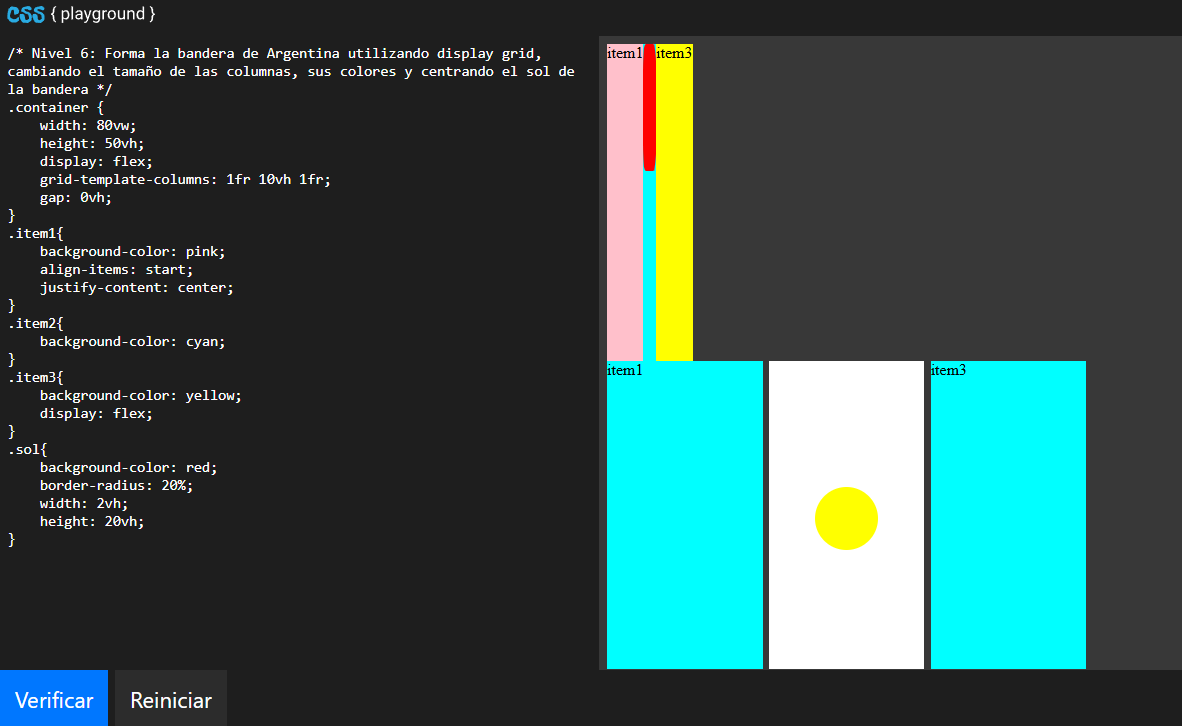
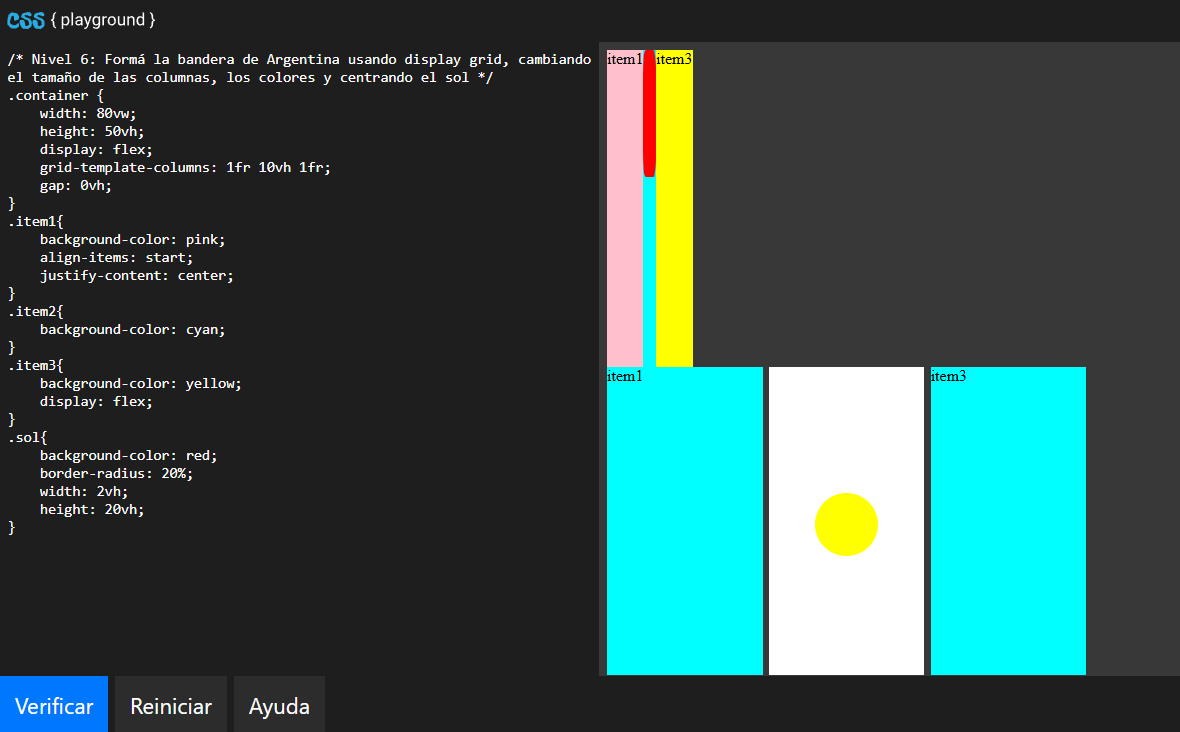
a

diff --git a/cssplayground/script.js b/cssplayground/script.js
@@ -188,3 +188,35 @@ play.addEventListener("click", () => {
 });
 
 
+const ayuda = document.getElementById("ayuda"); // Botón de ayuda
+
+function mostrarSolucion(segundos = 3) {
+    if (!nivel) return;
+    const doc = preview.contentDocument || preview.contentWindow.document;
+
+    // Guardamos el CSS actual del usuario
+    const editableStyle = doc.getElementById("editable");
+    const cssUsuario = editableStyle ? editableStyle.textContent : "";
+    const codigoUsuario = editor.textContent;
+
+    // Mostramos la solución en el iframe
+    if (editableStyle) editableStyle.textContent = nivel.final;
+
+    // Mostramos la solución en el editor
+    editor.textContent = nivel.final;
+
+    // Opcional: efecto visual para indicar ayuda
+    doc.body.style.transition = "all 0.3s";
+    editor.style.transition = "all 0.3s";
+    editor.style.opacity = "0.5";
+
+    // Volvemos al CSS y código del usuario después de X segundos
+    setTimeout(() => {
+        if (editableStyle) editableStyle.textContent = cssUsuario;
+        editor.textContent = codigoUsuario;
+        doc.body.style.opacity = "1";
+        editor.style.opacity = "1";
+    }, segundos * 1000);
+}
+// Listener para el botón de ayuda
+ayuda.addEventListener("click", () => mostrarSolucion(3));

diff --git a/cssplayground/index.html b/cssplayground/index.html
@@ -18,6 +18,7 @@
 <footer>
     <button id="play" style="background-color: rgb(0, 119, 255);">Verificar</button>
     <button id="reiniciar" >Reiniciar</button>
+    <button id="ayuda" >Ayuda</button>
     <a id="siquiente" style="display: none;">Proximo nivel</a>
 
 </footer>
